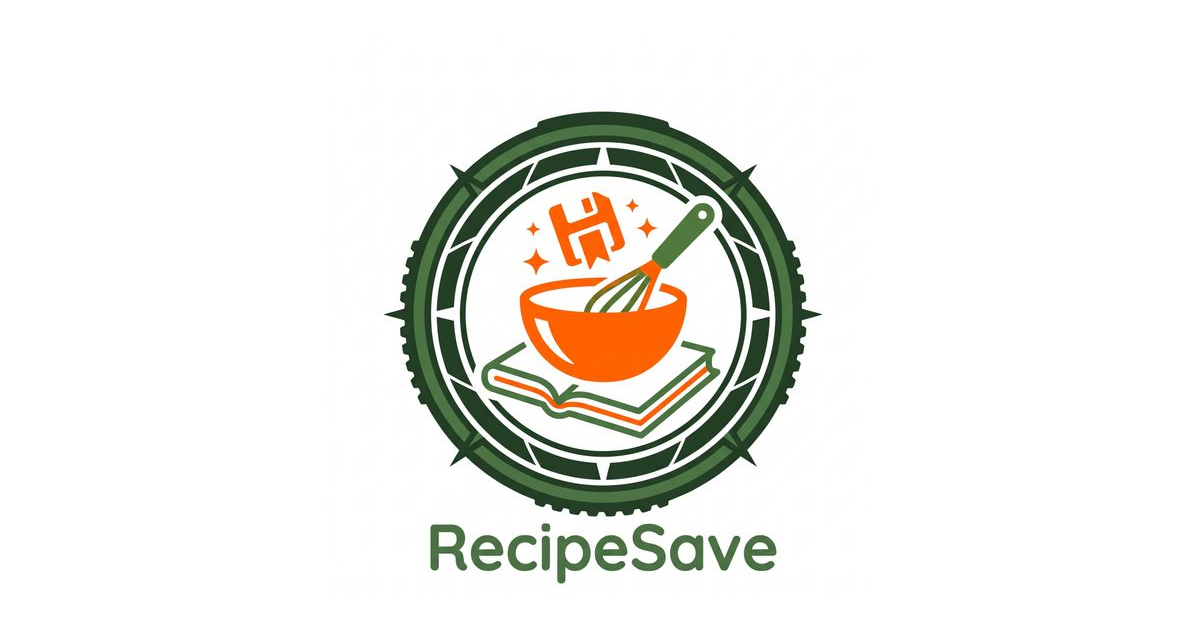
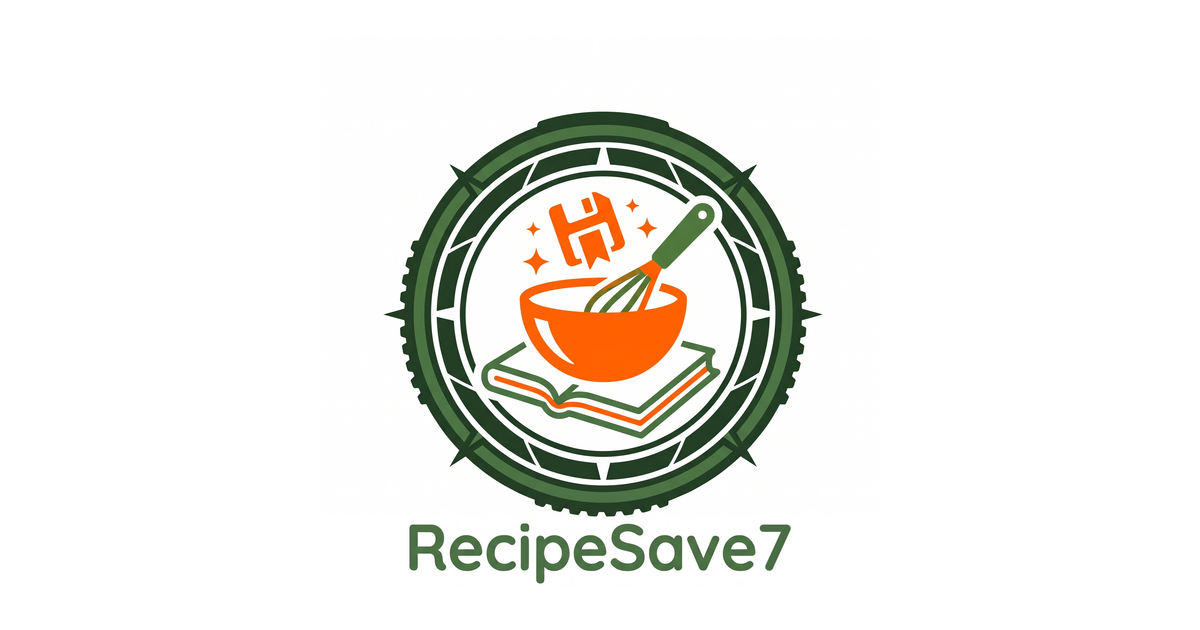
Rebrand app as RecipeSave7
Update app branding, logo assets, and icon generation for RecipeSave7, and configure Firebase project and Hosting site.

diff --git a/app/src/environments/environment.ts b/app/src/environments/environment.ts
@@ -1,15 +1,17 @@
-// Firebase web config for the RecipeSave project.
+// Firebase web config for the RecipeSave7 Firebase project (recipesave-c6973).
 // Copy the values from Firebase console > Project settings > Your apps > Web app.
 // These values are not secrets: Firebase web config is public by design.
 // Access is controlled by Firebase Auth, App Check and security rules.
 export const environment = {
   firebase: {
-    apiKey: '',
-    authDomain: '',
-    projectId: '',
-    storageBucket: '',
-    messagingSenderId: '',
-    appId: '',
+    apiKey: 'AIzaSyA1udDmUe_ukFnmj-FhKn4UGap7vG2gIiU',
+    authDomain: 'recipesave-c6973.firebaseapp.com',
+    projectId: 'recipesave-c6973',
+    storageBucket: 'recipesave-c6973.firebasestorage.app',
+    messagingSenderId: '501291919688',
+    appId: '1:501291919688:web:09e3d374caa86601c42b7d',
+    // Google Analytics is not turned on in the app (see the README); the id is kept for later.
+    measurementId: 'G-HETH3C6CKB',
   },
   // Google Cloud OAuth client (Web) used for Google sign-in with Drive access.
   googleOAuthClientId: '',

diff --git a/app/src/index.html b/app/src/index.html
@@ -2,7 +2,7 @@
 <html lang="en">
   <head>
     <meta charset="utf-8" />
-    <title>RecipeSave</title>
+    <title>RecipeSave7</title>
     <meta name="description" content="Scan recipe cards and cookbook pages into Google Docs." />
     <meta name="theme-color" content="#4a6d45" />
     <base href="/" />
@@ -11,8 +11,8 @@
     <link rel="icon" type="image/png" sizes="32x32" href="favicon-32x32.png" />
     <link rel="icon" type="image/png" sizes="16x16" href="favicon-16x16.png" />
     <link rel="apple-touch-icon" href="apple-touch-icon.png" />
-    <meta name="apple-mobile-web-app-title" content="RecipeSave" />
-    <meta property="og:title" content="RecipeSave" />
+    <meta name="apple-mobile-web-app-title" content="RecipeSave7" />
+    <meta property="og:title" content="RecipeSave7" />
     <meta property="og:description" content="Scan recipe cards and cookbook pages into Google Docs." />
     <meta property="og:image" content="og-image.png" />
     <meta property="og:type" content="website" />

diff --git a/app/src/app/app.html b/app/src/app/app.html
@@ -1,5 +1,5 @@
 <header>
-  <span class="brand"><img src="icons/icon-72x72.png" alt="" width="32" height="32" />RecipeSave</span>
+  <span class="brand"><img src="icons/icon-72x72.png" alt="" width="32" height="32" />RecipeSave7</span>
 </header>
 
 <main>

diff --git a/README.md b/README.md
@@ -1,8 +1,8 @@
-# RecipeSave
+# RecipeSave7
 
 App to save recipes from cards &amp; books.
 
-RecipeSave is a free, open-source web app, mainly for phones, that scans recipe cards and cookbook pages, has Gemini read them, and files each recipe as an editable Google Doc in your own Google Drive, in a folder for its recipe type. Any of those folders can be exported as a RecipeSage import file or as schema.org recipe JSON.
+RecipeSave7 is a free, open-source web app, mainly for phones, that scans recipe cards and cookbook pages, has Gemini read them, and files each recipe as an editable Google Doc in your own Google Drive, in a folder for its recipe type. Any of those folders can be exported as a RecipeSage import file or as schema.org recipe JSON.
 
 It stores no recipes on its own servers. Every user gets some free scanning each week, paid by the host up to a monthly cap; beyond that, scans use the user's own Gemini key.
 
@@ -33,8 +33,8 @@ The service worker (offline use and "Add to Home Screen") is on only in producti
 
 ## Firebase setup
 
-1. Create a Firebase project and upgrade it to the Blaze plan (Cloud Functions need it). Set a budget alert in Google Cloud Billing.
-2. Put the project id in `.firebaserc`, and the web app config in `app/src/environments/environment.ts`.
+1. The Firebase project is `recipesave-c6973` on the Blaze plan (Cloud Functions need it), already set in `.firebaserc`. The app is served from the Hosting site `recipesave7` (https://recipesave7.web.app); create that site under Hosting if it doesn't exist yet. Set a budget alert in Google Cloud Billing.
+2. Put the web app config in `app/src/environments/environment.ts`.
 3. `npm install -g firebase-tools`, then `firebase login`.
 4. Store the host's Gemini key as a secret: `firebase functions:secrets:set GEMINI_API_KEY`.
 5. Turn on App Check (reCAPTCHA Enterprise) for the web app, and Google sign-in under Authentication.

diff --git a/app/README.md b/app/README.md
@@ -1,4 +1,4 @@
-# RecipeSave app
+# RecipeSave7 app
 
 Angular PWA, generated with Angular CLI 22.3, plus `@angular/pwa` and the Firebase JS SDK.
 
@@ -19,4 +19,4 @@ npm run build    # production build with the service worker, in dist/recipesave/
 
 ## Logo and icons
 
-The master logo is `src/assets/RecipeSave_Logo.jpeg` (it is not shipped in the build). `npm run icons` regenerates everything in `public/` from it: the PWA icons (`icons/icon-*.png`, transparent), maskable icons for Android (`icons/maskable-*.png`), `apple-touch-icon.png`, `favicon.ico` and the PNG favicons, `logo-emblem.png`, a web-sized `logo.png`, and the link-preview `og-image.png`. Icons use only the round emblem, since the word "RecipeSave" can't be read at icon sizes. Run it again whenever the logo changes.
+The master logo is `src/assets/RecipeSave7_Logo.png` (it is not shipped in the build; the original `RecipeSave_Logo.jpeg` without the 7 can be deleted). `npm run icons` regenerates everything in `public/` from it: the PWA icons (`icons/icon-*.png`, transparent), maskable icons for Android (`icons/maskable-*.png`), `apple-touch-icon.png`, `favicon.ico` and the PNG favicons, `logo-emblem.png`, a web-sized `logo.png`, and the link-preview `og-image.png`. Icons use only the round emblem, since the word "RecipeSave7" can't be read at icon sizes. Run it again whenever the logo changes.
